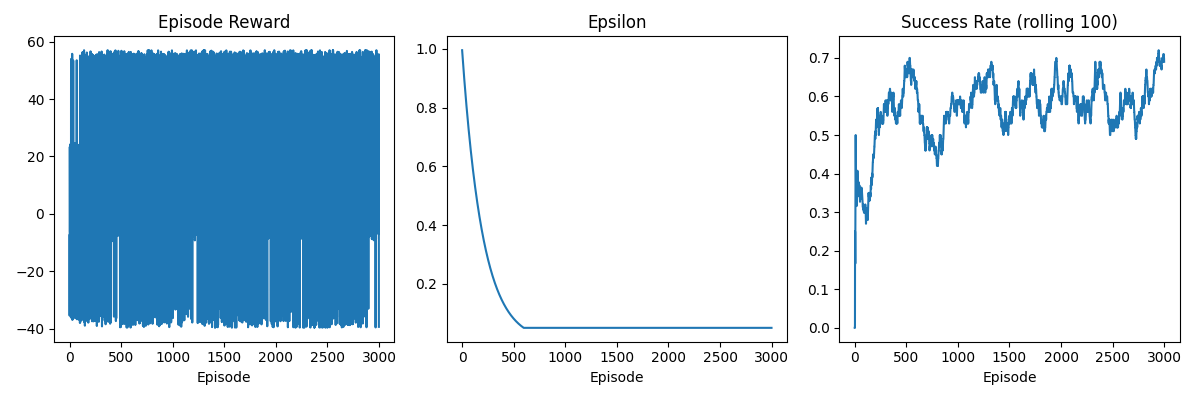
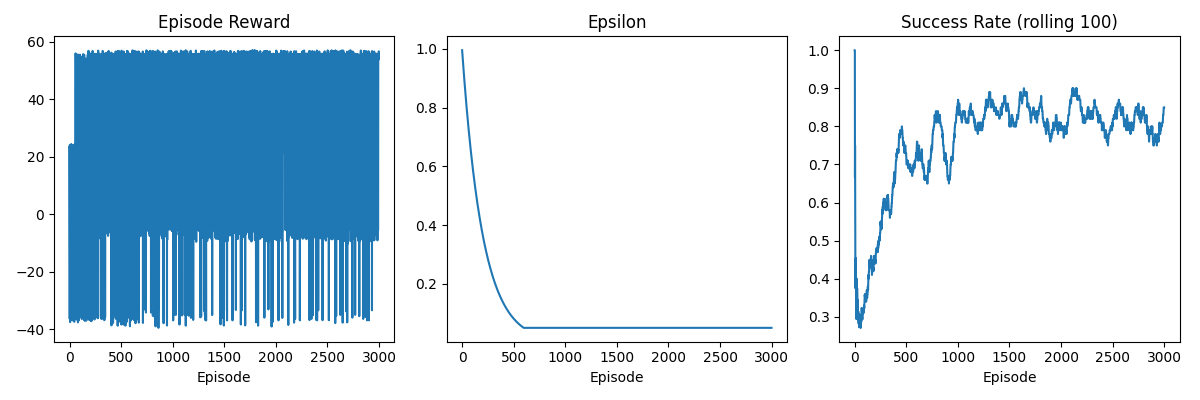
gui available now

diff --git a/shooting_qlearning_opt_b.py b/shooting_qlearning_opt_b.py
@@ -225,6 +225,86 @@ class ShootingEnvB:
                   f"Enemy left: {self.num_enemies} (dir: {self.enemy_dir}) | Ammo: {self.ammo}")
             print()
 
+
+import pygame
+
+class ShootingUI:
+    def __init__(self, env, cell_size=40):
+        self.env = env
+        self.cell_size = cell_size
+
+        pygame.init()
+        self.screen = pygame.display.set_mode(
+            (env.width * cell_size, env.height * cell_size)
+        )
+        pygame.display.set_caption("Shooting Game UI")
+
+        self.clock = pygame.time.Clock()
+
+    def draw_grid(self):
+        for y in range(self.env.height):
+            for x in range(self.env.width):
+                rect = pygame.Rect(
+                    x * self.cell_size,
+                    y * self.cell_size,
+                    self.cell_size,
+                    self.cell_size,
+                )
+                pygame.draw.rect(self.screen, (40, 40, 40), rect, 1)
+
+    def draw_player(self):
+        x = self.env.player_x
+        y = self.env.player_y
+        rect = pygame.Rect(
+            x * self.cell_size,
+            y * self.cell_size,
+            self.cell_size,
+            self.cell_size,
+        )
+        pygame.draw.rect(self.screen, (0, 200, 255), rect)
+
+    def draw_enemies(self):
+        for ex, ey, hit in self.env.enemies:
+            if ex < 0: 
+                continue  # removed enemy
+            color = (255, 0, 0) if not hit else (255, 255, 0)
+            rect = pygame.Rect(
+                ex * self.cell_size,
+                ey * self.cell_size,
+                self.cell_size,
+                self.cell_size,
+            )
+            pygame.draw.rect(self.screen, color, rect)
+
+    def draw_shot(self):
+        if not self.env.last_shot_active:
+            return
+        y = self.env.last_shot_row
+        for x in range(self.env.player_x + 1, self.env.width):
+            rect = pygame.Rect(
+                x * self.cell_size,
+                y * self.cell_size + self.cell_size // 4,
+                self.cell_size,
+                self.cell_size // 2,
+            )
+            pygame.draw.rect(self.screen, (255, 255, 255), rect)
+
+    def render(self, fps=10):
+        for event in pygame.event.get():
+            if event.type == pygame.QUIT:
+                quit()
+
+        self.screen.fill((0, 0, 0))
+
+        self.draw_grid()
+        self.draw_player()
+        self.draw_enemies()
+        self.draw_shot()
+
+        pygame.display.flip()
+        self.clock.tick(fps)
+
+
 # ---------- State <-> Index mapping ----------
 def state_to_index(player_y, enemy_y, ammo, enemy_dir, height, ammo_capacity):
     """
@@ -413,6 +493,11 @@ def main():
     print("Evaluating policy (200 episodes)")
     success_rate, mean_reward, std_reward = evaluate_policy(env, Q, episodes=200, render=False)
     print(f"Eval success rate: {success_rate:.2f}, mean reward: {mean_reward:.2f} ± {std_reward:.2f}")
+    
+    print("Q shape:", Q.shape)
+    print("Example row for state 0:", Q[1000])
+    print("Max Q value:", np.max(Q))
+
 
     # Example interactive episode (rendered)
     print("\nExample interactive episode (rendered):")

diff --git a/test_agent.py b/test_agent.py
@@ -1,0 +1,34 @@
+from shooting_qlearning_opt_b import ShootingEnvB, ShootingUI, state_to_index
+import pygame
+
+
+if __name__ == "__main__":
+    import pickle
+    import numpy as np
+
+    # load trained agent
+    with open("q_table_option_b.pkl", "rb") as f:
+        Q = pickle.load(f)
+
+    env = ShootingEnvB()
+    ui = ShootingUI(env)  # GUI with rectangles or sprites
+
+    obs = env.reset()
+    done = False
+
+    while not done:
+        # pick best action from Q-table
+        height = env.height
+        ammo_capacity = env.ammo_capacity
+        state_idx = state_to_index(obs[0], obs[1], obs[2], obs[3], height, ammo_capacity)
+        action = np.argmax(Q[state_idx])
+
+
+
+        # env step
+        obs, reward, done, info = env.step(action)
+
+        # draw GUI
+        ui.render(fps=8)
+
+    pygame.time.wait(1000)
